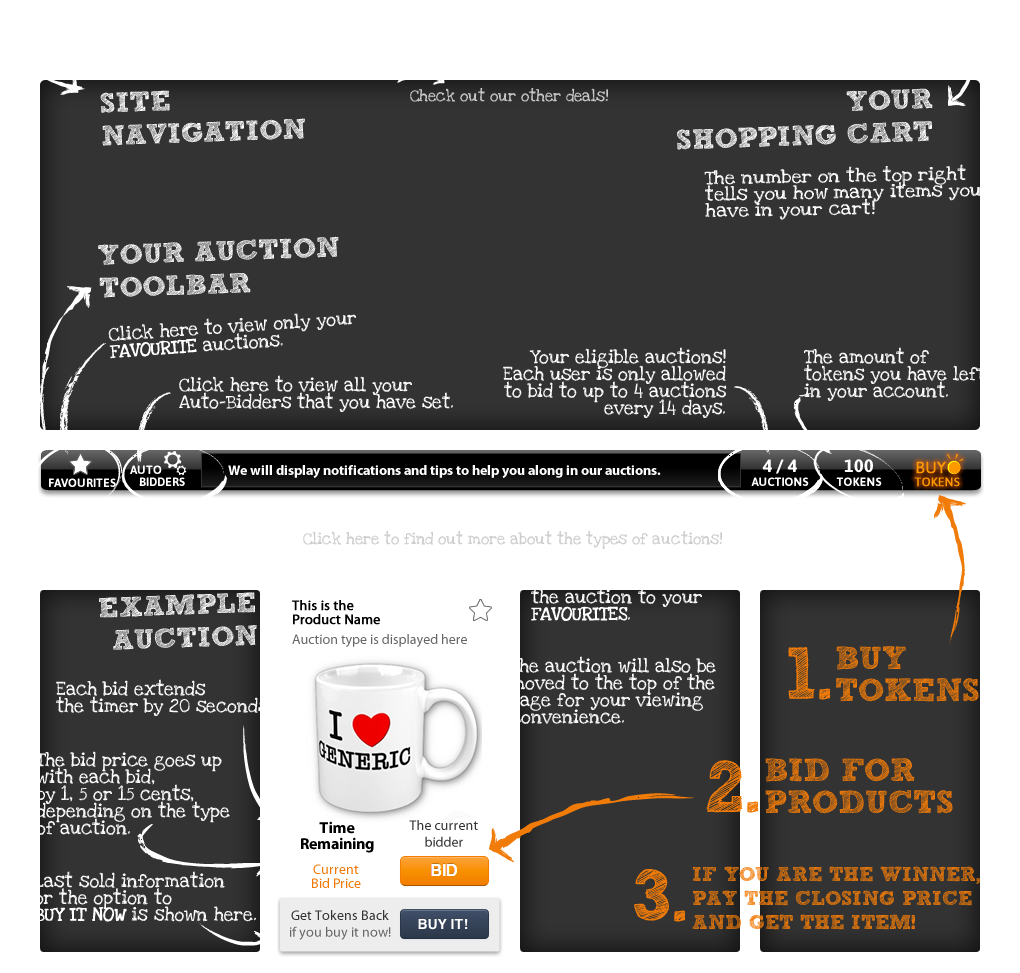
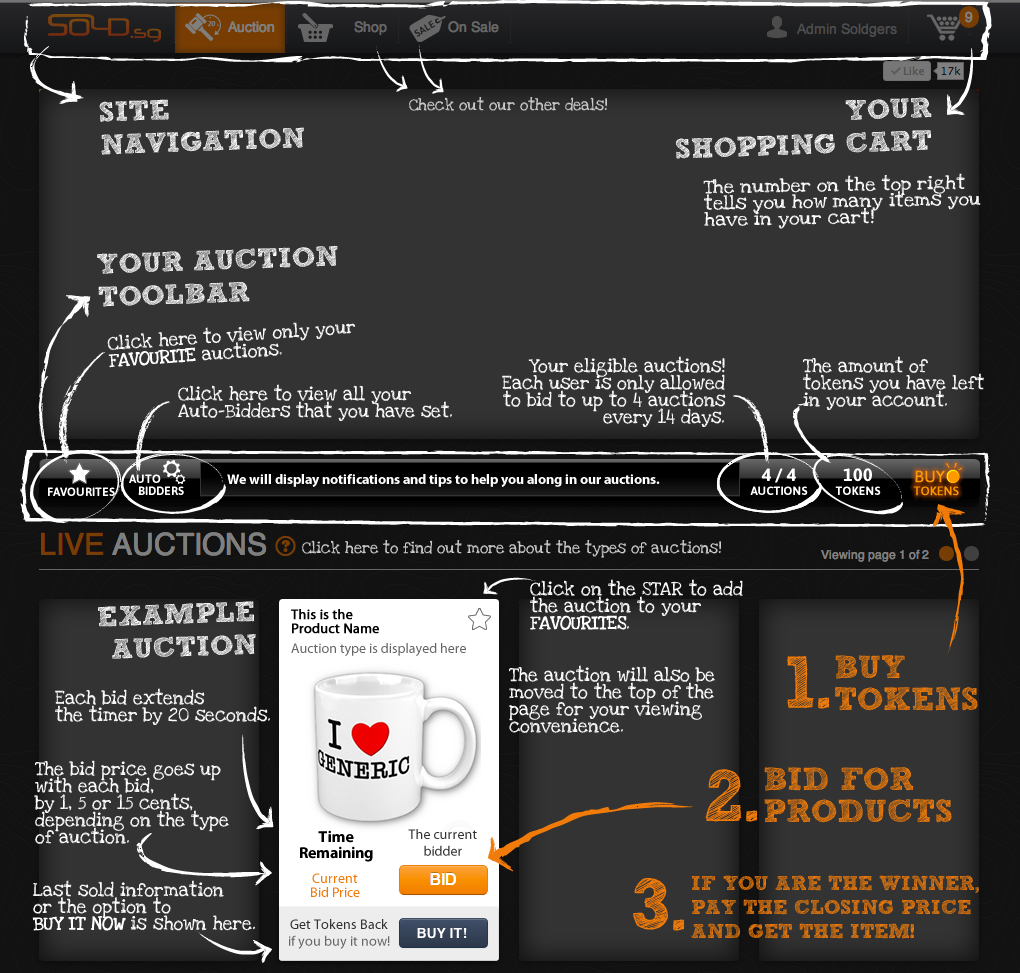
rookie btn fix

diff --git a/app/assets/stylesheets/soldstyles/_default_themes.scss b/app/assets/stylesheets/soldstyles/_default_themes.scss
@@ -2508,12 +2508,13 @@ div.partner-logo:hover .bar {display:block ;}
 .modal.rookie {
   //background-color: rgba(255, 127, 0,0.25);
   background: url("/assets/rookiepage-web.png") no-repeat center center fixed;
-  width: 1020px !important;
+  width: 1020px;
   height: 973px;
-  margin: -355px 0 0 -515px;
+  margin: -400px 0 0 -515px;
   position: fixed;
+  overflow: scroll;
 
-  img {width: 1020px; height: 868px; border: red thin solid}
+  img {width: 1020px; height: 868px;}
 }
 
 .btn-imrookie {
